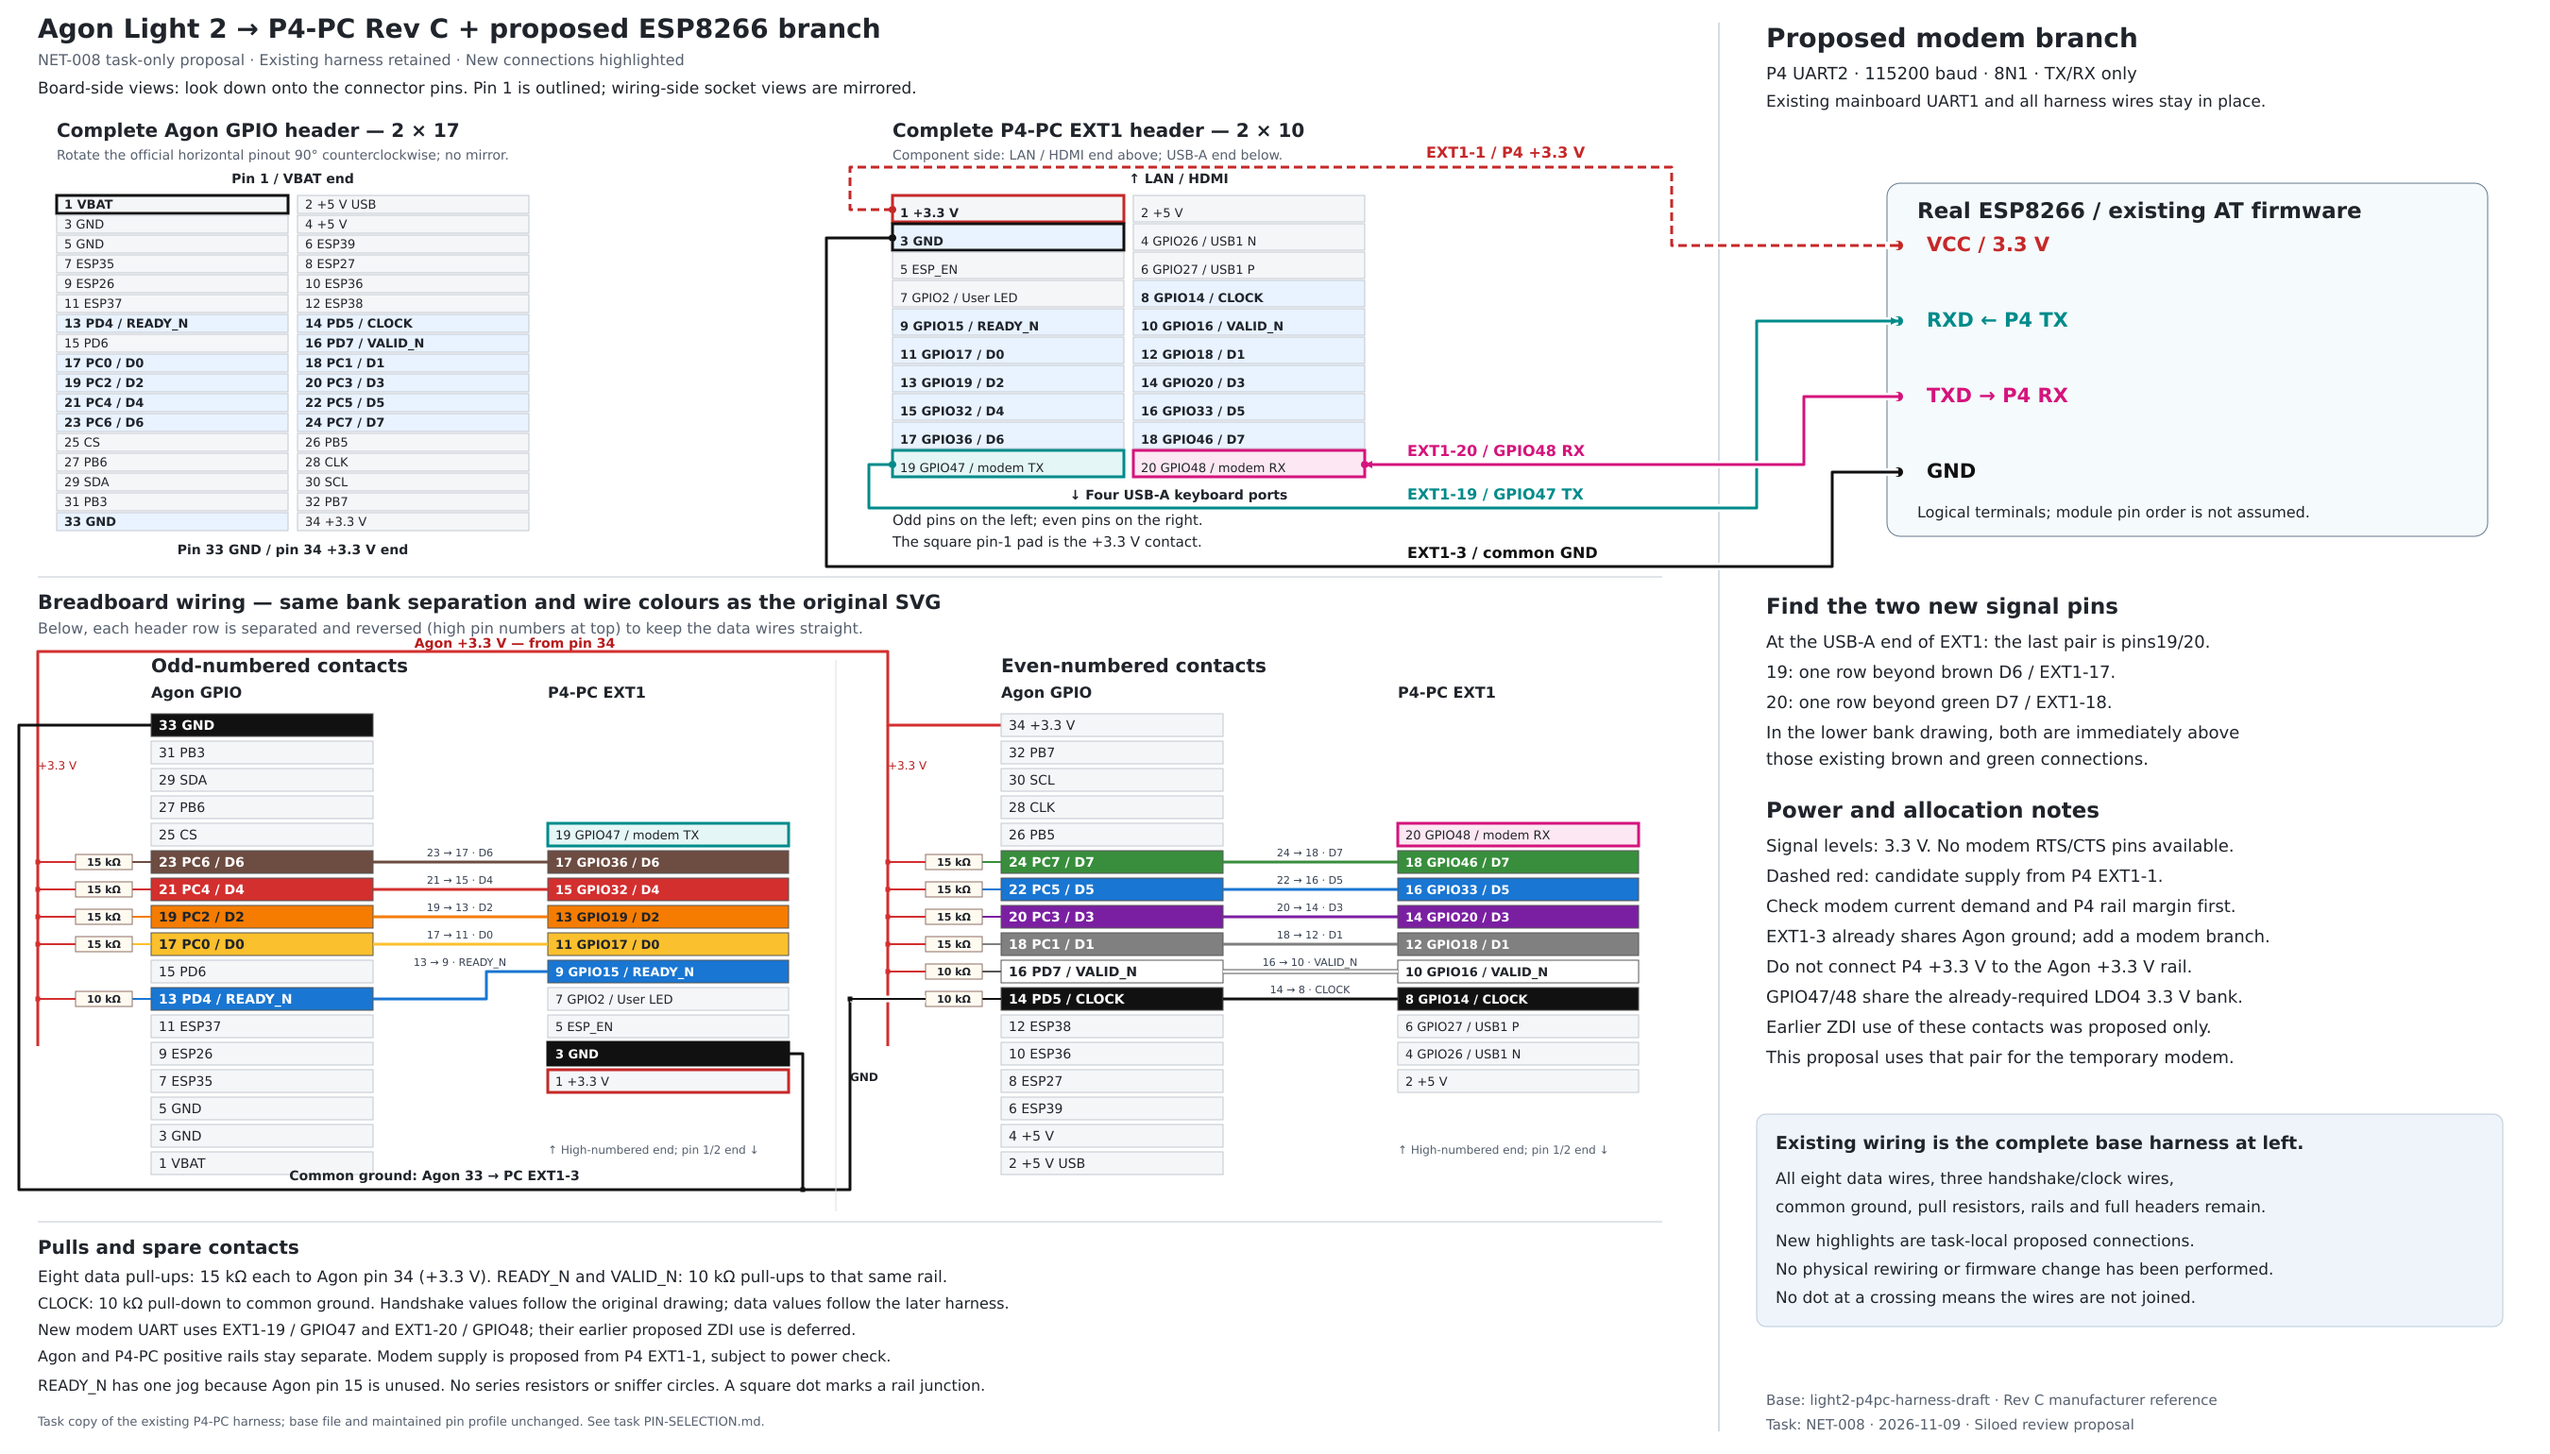
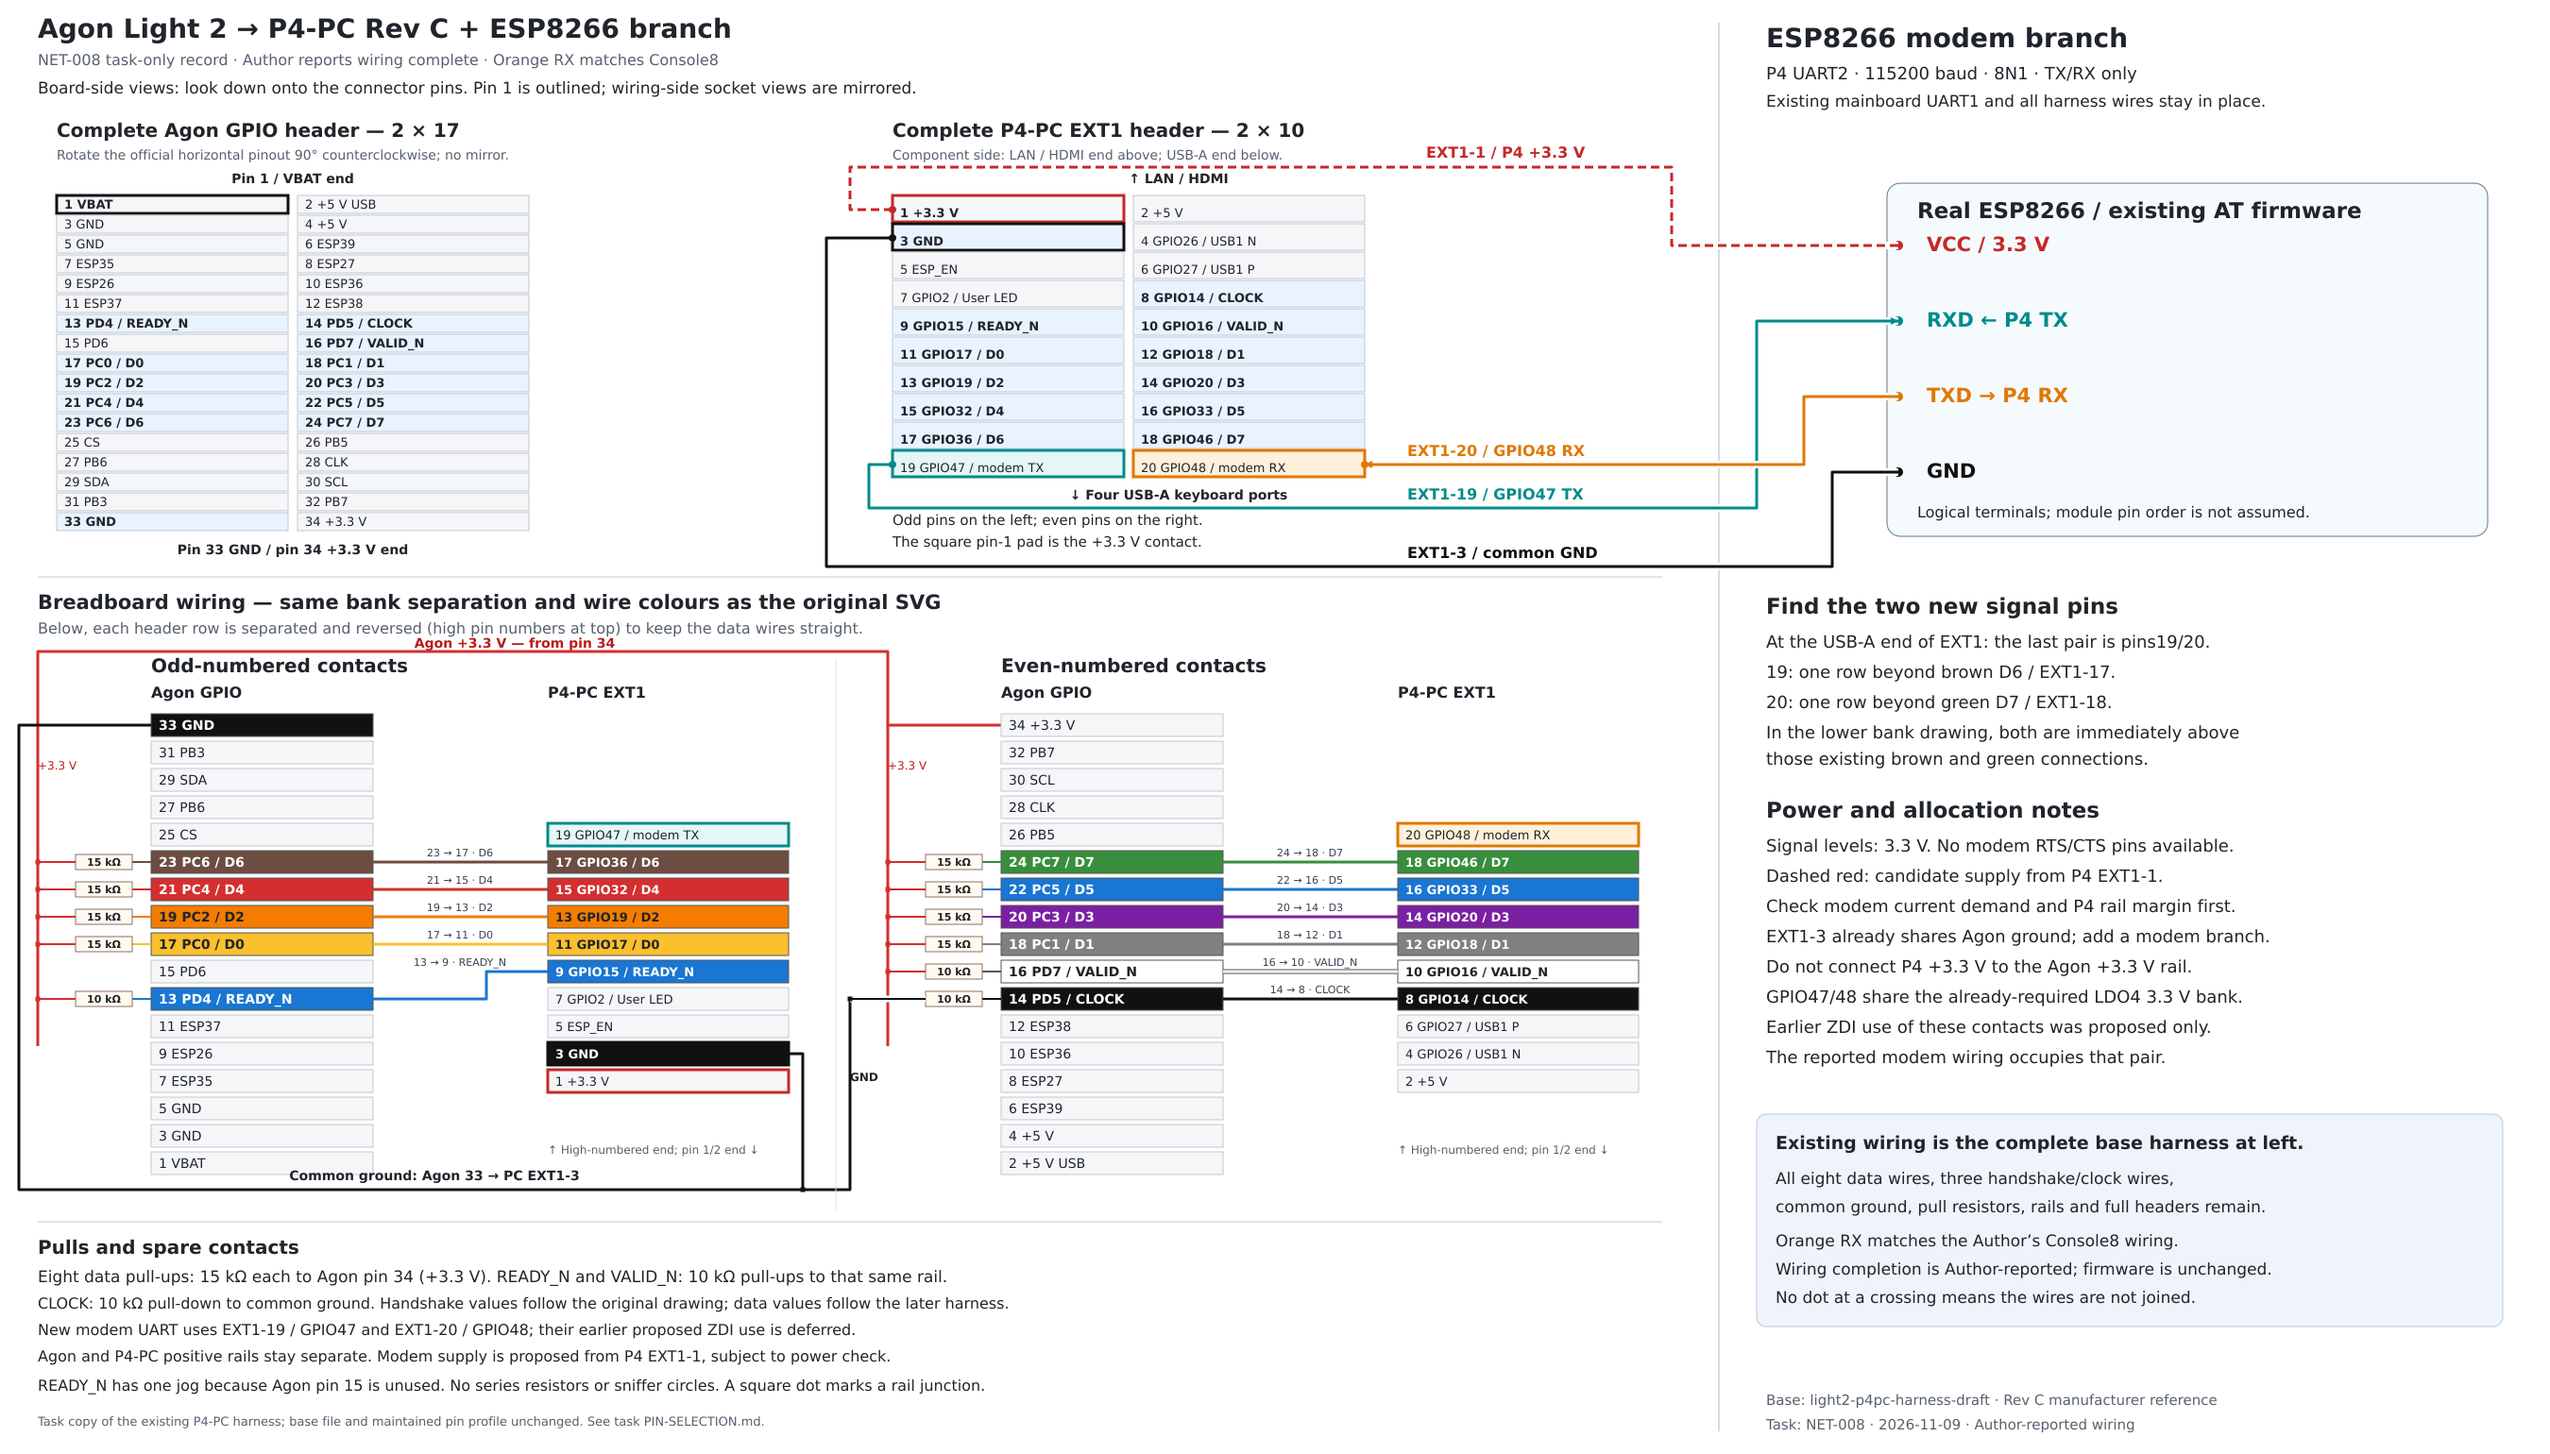
Record completed ESP8266 wiring and Console8 orange RX lead

diff --git a/docs/tasks/NET-008/draw_wiring.py b/docs/tasks/NET-008/draw_wiring.py
@@ -2,7 +2,7 @@
 """Task-only ESP8266 proposal over the unchanged complete P4-PC harness SVG.
 
 No hardware/profile changes. Keep the base drawing's existing wire paths,
-pulls, colours and contact geometry. New connections are a review proposal;
+pulls, colours and contact geometry. The Author reports the modem wiring complete;
 the module's physical terminal order and available power margin are unresolved.
 Use librsvg/Cairo for PNG export: ImageMagick's internal SVG renderer omitted
 the existing path elements during this task, so it is unsuitable for this file.
@@ -31,13 +31,13 @@ assert not {47,48} & (set(profile['transport']['data']) |
                      set(profile['reserved_gpios']))
 base.set('width','2700'); base.set('viewBox','0 0 2700 1540')
 base.find(tag('rect')).set('width','2700')
-base.find(tag('title')).text = 'NET-008 task proposal — full existing harness plus ESP8266 UART'
-base.find(tag('desc')).text = 'Task-only derivative. All existing harness paths retained. Proposed GPIO47 TX and GPIO48 RX, candidate P4 3.3V power and shared ground. No installed-wiring claim.'
+base.find(tag('title')).text = 'NET-008 wiring record — full existing harness plus ESP8266 UART'
+base.find(tag('desc')).text = 'Task-only derivative. All existing harness paths retained. Author-reported GPIO47 TX and orange GPIO48 RX; supply current remains unqualified.'
 for e in base.iter(tag('text')):
     if e.get('x')=='40' and e.get('y')=='40':
-        e.text = 'Agon Light 2 → P4-PC Rev C + proposed ESP8266 branch'
+        e.text = 'Agon Light 2 → P4-PC Rev C + ESP8266 branch'
     elif e.get('x')=='40' and e.get('y')=='69':
-        e.text = 'NET-008 task-only proposal · Existing harness retained · New connections highlighted'
+        e.text = 'NET-008 task-only record · Author reports wiring complete · Orange RX matches Console8'
     elif e.text and 'GPIO47 / Spare' in e.text:
         e.text = e.text.replace('GPIO47 / Spare','GPIO47 / modem TX')
     elif e.text and 'GPIO48 / Spare' in e.text:
@@ -55,26 +55,26 @@ def text(x,y,s,size=18,colour='#20242b',bold=False):
 def rect(x,y,w,h,fill='#f5f6f8',stroke='#b8c1cc',**attrs):
     return el('rect',x=x,y=y,width=w,height=h,fill=fill,stroke=stroke,**attrs)
 defs=el('defs')
-for name,col in [('tx','#008b8b'),('rx','#d4147c')]:
+for name,col in [('tx','#008b8b'),('rx','#e07800')]:
     m=ET.SubElement(defs,tag('marker'),{'id':'arrow-'+name,'markerWidth':'9','markerHeight':'9','refX':'8','refY':'4','orient':'auto','markerUnits':'userSpaceOnUse'})
     ET.SubElement(m,tag('path'),{'d':'M 0 0 L 8 4 L 0 8 Z','fill':col})
-for pin,col in [(19,'#008b8b'),(20,'#d4147c'),(1,'#c62828'),(3,'#111111')]:
+for pin,col in [(19,'#008b8b'),(20,'#e07800'),(1,'#c62828'),(3,'#111111')]:
     for kind in ['overview','bank']:
         old=base.find(f'.//*[@id="pc-{kind}-pin{pin}"]')
         if old is not None:
             old.set('stroke',col);old.set('stroke-width','3')
-            if pin in (19,20):old.set('fill','#e4f6f5' if pin==19 else '#fce7f2')
+            if pin in (19,20):old.set('fill','#e4f6f5' if pin==19 else '#fff0da')
 
 # The drawing keeps the original 1800-wide harness area intact. Branches start
 # at actual contact rectangles in its complete physical header view.
 el('path',d='M 1820 24 V 1516',stroke='#d3dce5',fill='none',stroke_width=2)
-text(1870,50,'Proposed modem branch',28,bold=True)
+text(1870,50,'ESP8266 modem branch',28,bold=True)
 text(1870,84,'P4 UART2 · 115200 baud · 8N1 · TX/RX only',18)
 text(1870,113,'Existing mainboard UART1 and all harness wires stay in place.',17)
 rect(1998,194,636,374,'#f5fafc','#64788a',rx=14)
 text(2030,231,'Real ESP8266 / existing AT firmware',23,bold=True)
 for y,label,col in [(260,'VCC / 3.3 V','#c62828'),(340,'RXD  ←  P4 TX','#008b8b'),
-                    (420,'TXD  →  P4 RX','#d4147c'),(500,'GND','#111111')]:
+                    (420,'TXD  →  P4 RX','#e07800'),(500,'GND','#111111')]:
     el('circle',cx=2010,cy=y,r=5,fill=col)
     text(2040,y+6,label,21,col,True)
 text(2030,548,'Logical terminals; module pin order is not assumed.',16)
@@ -82,21 +82,21 @@ text(2030,548,'Logical terminals; module pin order is not assumed.',16)
 branches=[
  ('modem-vcc','M 945 222 H 900 V 177 H 1770 V 260 H 2010','#c62828','',True,1),
  ('modem-tx','M 945 492 H 920 V 538 H 1860 V 340 H 2010','#008b8b','tx',False,19),
- ('modem-rx','M 2010 420 H 1910 V 492 H 1445','#d4147c','rx',False,20),
+ ('modem-rx','M 2010 420 H 1910 V 492 H 1445','#e07800','rx',False,20),
  ('modem-ground','M 945 252 H 875 V 600 H 1940 V 500 H 2010','#111111','',False,3),
 ]
 for name,d,col,arrow,dashed,pin in branches:
     # White underlay makes crossings explicit: no dot means no junction.
     el('path',d=d,fill='none',stroke='white',stroke_width=8)
     e=el('path',id=name,d=d,fill='none',stroke=col,stroke_width=3,
-         stroke_linejoin='round',data_pc_pin=pin,data_status='proposed')
+         stroke_linejoin='round',data_pc_pin=pin,data_status='author-reported' if pin != 1 else 'supply-unqualified')
     if dashed:e.set('stroke-dasharray','9 5')
     if arrow:e.set('marker-end','url(#arrow-'+arrow+')')
     if pin in (1,3,19):
         xy={1:(945,222),3:(945,252),19:(945,492)}[pin]
     else:xy=(1445,492)
     el('circle',cx=xy[0],cy=xy[1],r=4,fill=col)
-text(1490,483,'EXT1-20 / GPIO48 RX',16,'#d4147c',True)
+text(1490,483,'EXT1-20 / GPIO48 RX',16,'#e07800',True)
 text(1490,529,'EXT1-19 / GPIO47 TX',16,'#008b8b',True)
 text(1490,591,'EXT1-3 / common GND',16,'#111111',True)
 text(1510,167,'EXT1-1 / P4 +3.3 V',16,'#c62828',True)
@@ -115,16 +115,16 @@ for y,s in [(902,'Signal levels: 3.3 V. No modem RTS/CTS pins available.'),
             (1030,'Do not connect P4 +3.3 V to the Agon +3.3 V rail.'),
             (1062,'GPIO47/48 share the already-required LDO4 3.3 V bank.'),
             (1094,'Earlier ZDI use of these contacts was proposed only.'),
-            (1126,'This proposal uses that pair for the temporary modem.')]:text(1870,y,s,18)
+            (1126,'The reported modem wiring occupies that pair.')]:text(1870,y,s,18)
 rect(1860,1180,790,225,'#eef4fa','#bbc9d8',rx=10)
 text(1880,1217,'Existing wiring is the complete base harness at left.',19,bold=True)
 for y,s in [(1254,'All eight data wires, three handshake/clock wires,'),
             (1284,'common ground, pull resistors, rails and full headers remain.'),
-            (1320,'New highlights are task-local proposed connections.'),
-            (1350,'No physical rewiring or firmware change has been performed.'),
+            (1320,'Orange RX matches the Author’s Console8 wiring.'),
+            (1350,'Wiring completion is Author-reported; firmware is unchanged.'),
             (1380,'No dot at a crossing means the wires are not joined.')]:text(1880,y,s,17)
 text(1870,1488,'Base: light2-p4pc-harness-draft · Rev C manufacturer reference',15,'#56606e')
-text(1870,1514,'Task: NET-008 · 2026-11-09 · Siloed review proposal',15,'#56606e')
+text(1870,1514,'Task: NET-008 · 2026-11-09 · Author-reported wiring',15,'#56606e')
 
 actual_old=[dict(e.attrib) for e in base.iter(tag('path')) if e.attrib in old_paths]
 assert actual_old==old_paths,'Existing wire/rail paths must remain identical'

diff --git a/docs/tasks/NET-008/PIN-SELECTION.md b/docs/tasks/NET-008/PIN-SELECTION.md
@@ -1,17 +1,17 @@
-# Temporary ESP8266 branch — task-only pin proposal
+# Temporary ESP8266 branch — task-only wiring record
 
 Use P4-PC EXT1 contacts19/20 for the modem's two UART signals. They are the
 last pair at the USB-A end, immediately beyond the existing brown D6 and green
 D7 connections. The [full drawing](ESP8266-WIRING.svg) retains all existing
 Agon/P4 harness wiring and adds the modem branch; [PNG preview](ESP8266-WIRING.png).
-This is a proposal for review, not a report of installed wiring or power qualification.
+Smith reports the wiring complete on2026-11-09 and corrects the P4 RX wire colour to orange, matching Console8. This records his construction report; no independent continuity, power-margin or communication test has occurred.
 
 ## Proposed connections
 
 | P4-PC EXT1 contact | P4 function | Modem terminal | Drawing colour |
 |---|---|---|---|
 | 19 / GPIO47 | UART2 TX, P4 transmits | RXD | Teal |
-| 20 / GPIO48 | UART2 RX, P4 receives | TXD | Magenta |
+| 20 / GPIO48 | UART2 RX, P4 receives | TXD | Orange (matches Console8) |
 | 3 / GND | Existing common ground, add a branch | GND | Black |
 | 1 / +3.3V | Candidate modem supply; power margin still to establish | VCC / 3.3V | Dashed red |
 
@@ -46,7 +46,7 @@ electrical-qualification limits remain; this copy is not a new as-built survey.
 1. The maintained P4-PC profile maps GPIO47/48 to contacts19/20 and assigns
    neither to transport nor its reserved GPIO list. The base drawing reports
    both contacts spare. Their earlier proposed ZDI assignment was deferred,
-   not installed by that record; this temporary modem proposal would occupy
+   not installed by that record; the reported temporary modem wiring occupies
    both. It does not silently modify a recovery profile or create simultaneous
    modem/ZDI use.
 2. GPIO47/48 share VDDPST_5/LDO4 with the already-connected GPIO46/D7. Existing
@@ -57,8 +57,8 @@ electrical-qualification limits remain; this copy is not a new as-built survey.
    this physical assembly. The red supply connection remains conditional;
    do not treat the diagram as power-on readiness. Do not use EXT1-2/+5V for
    the selected3.3V modem or join the two computers' positive supply rails.
-4. No physical inspection, wiring change, device connection, firmware build,
-   pin drive, power operation or hardware test occurred. Hardware remains
+4. Smith reports completing the physical wiring. The agent performed no physical
+   inspection, firmware build, pin drive, power operation or hardware test. Hardware remains
    under the dedicated scheduler. Existing pin profiles and harness authorities
    are unchanged.
 
@@ -95,6 +95,6 @@ Regenerate from the repository root:
 ```
 
 Pin/supply labels in this proposal are supported by the current schematic and
-profile; electrical availability, modem power margin and final construction
-remain to be established. No generic protocol or product pin-map change is
+profile. Construction is Author-reported; independent electrical checks and
+modem power margin remain to be established. No generic protocol or product pin-map change is
 selected by creating this task-local drawing.

diff --git a/docs/tasks/NET-008.md b/docs/tasks/NET-008.md
@@ -163,3 +163,12 @@ pin/header checks and visual inspection pass; N08-02 remains partial until
 module power margin and final construction facts are established. The base
 harness, native board profile and historical freeze remain unchanged. No
 wiring, firmware implementation or hardware operation is performed by this proposal.
+
+## Author wiring completion — 2026-11-09
+
+Smith reports the wiring done and identifies the P4 RX lead (EXT1-20/GPIO48,
+from modem TXD) as **orange**, matching the Console8 wiring. The task-only
+drawing, generator and pin table now use orange for that connection. This is
+a construction report, not an independent electrical/power or communications
+qualification; no firmware configuration or device operation accompanied this
+record update. The base harness and maintained pin profile remain unchanged.
